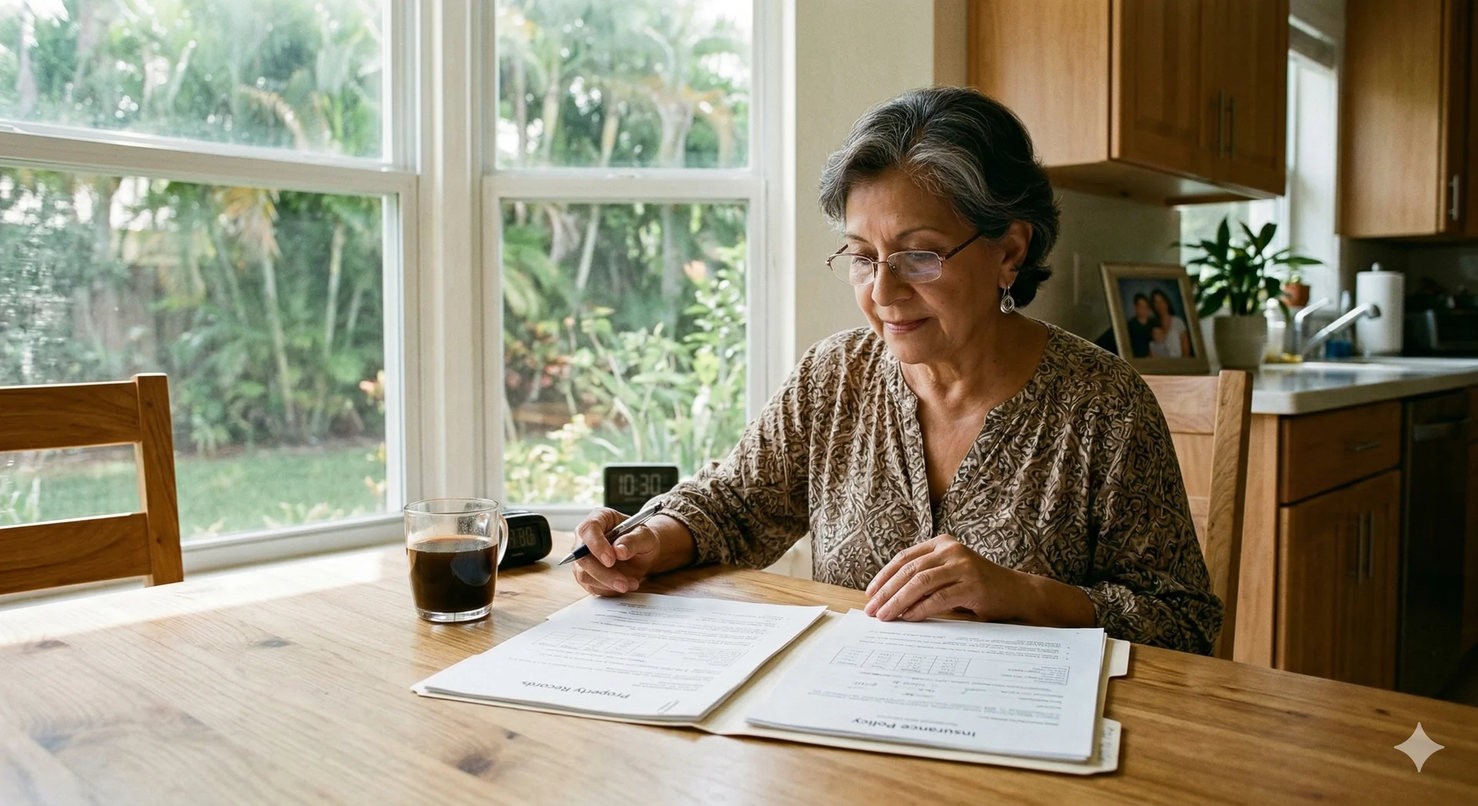
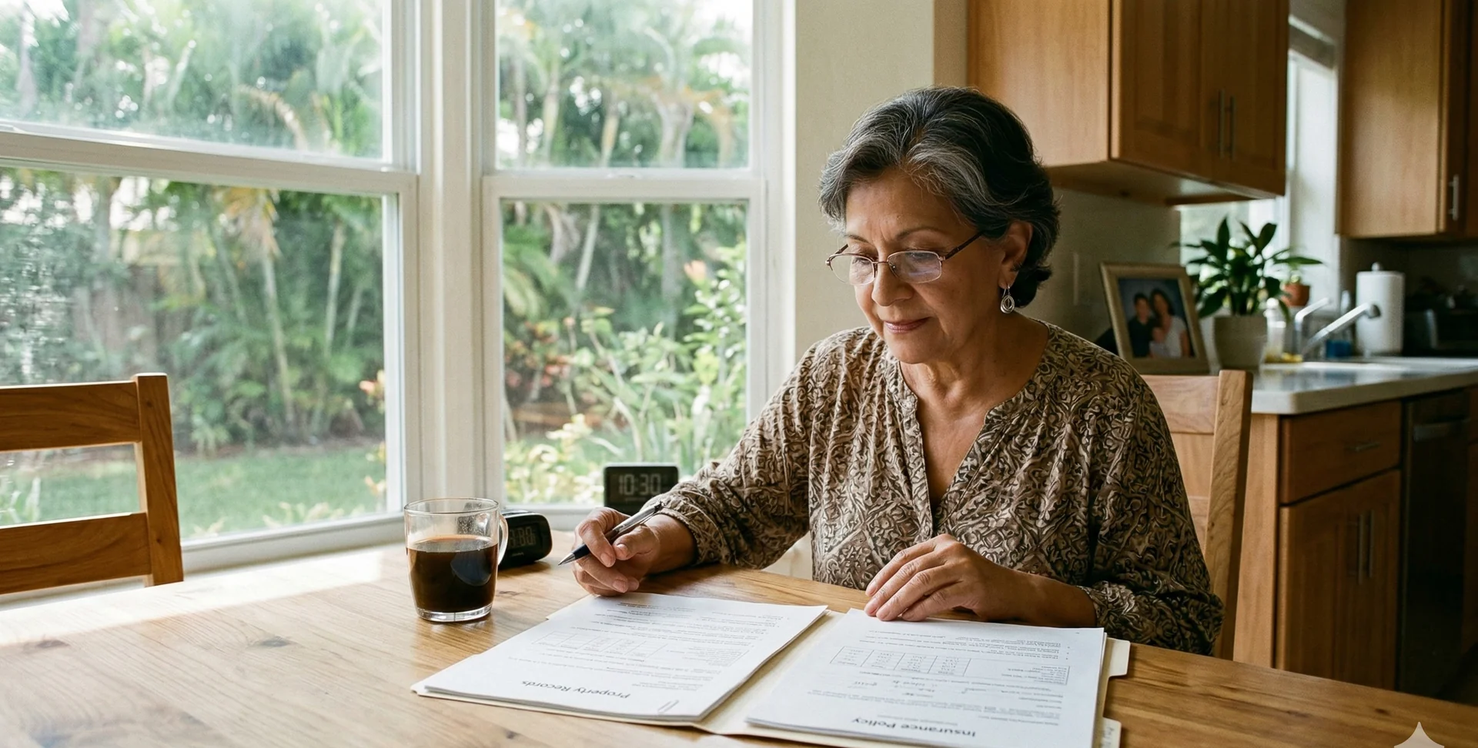
Fix photos: crop Gemini watermark + responsive aspect-ratio CSS
- Crop 110px from bottom of all 12 photos (removes Gemini logo)
- Hero: aspect-ratio 16/6, object-position center 30%
- Body: aspect-ratio 16/9
- Fully responsive — scales naturally on all screen sizes

diff --git a/blog/medicare-supplement-vs-advantage.html b/blog/medicare-supplement-vs-advantage.html
@@ -36,12 +36,12 @@
 .related-section{background:var(--off-white);padding:56px 48px;border-top:1px solid var(--border-soft);}.related-inner{max-width:1080px;margin:0 auto;}.related-title{font-family:var(--font-display);font-size:28px;font-weight:700;color:var(--navy);margin-bottom:28px;}.related-grid{display:grid;grid-template-columns:repeat(3,1fr);gap:24px;}
 .blog-card{background:var(--white);border:1px solid var(--border);border-radius:16px;overflow:hidden;transition:all 0.22s;cursor:pointer;text-decoration:none;display:block;color:inherit;}.blog-card:hover{transform:translateY(-3px);box-shadow:0 12px 40px rgba(0,28,61,0.1);}.blog-card-img{height:160px;display:flex;align-items:center;justify-content:center;position:relative;overflow:hidden;}.bci-medicare{background:linear-gradient(135deg,#001c3d,#0a3a6e);}.bci-aca{background:linear-gradient(135deg,#0a4a34,#1D9E75);}.bci-vida{background:linear-gradient(135deg,#2d1b4e,#7B4FBD);}.bci-general{background:linear-gradient(135deg,#1a1a2e,#2a4a7f);}.blog-card-icon{width:48px;height:48px;border-radius:14px;display:flex;align-items:center;justify-content:center;background:rgba(255,255,255,0.15);}.blog-card-category{position:absolute;top:12px;left:12px;font-size:10px;font-weight:700;letter-spacing:0.08em;text-transform:uppercase;padding:3px 9px;border-radius:10px;}.bcat-medicare{background:rgba(52,152,219,0.9);color:#fff;}.bcat-aca{background:rgba(29,158,117,0.9);color:#fff;}.bcat-general{background:rgba(245,166,35,0.9);color:#001c3d;}.blog-card-body{padding:20px 20px 18px;}.blog-card-meta{display:flex;align-items:center;gap:8px;margin-bottom:9px;}.blog-card-date{font-size:11px;color:var(--text-muted);}.blog-card-read{font-size:11px;color:var(--text-muted);}.blog-card-dot{width:3px;height:3px;border-radius:50%;background:var(--text-muted);}.blog-card-title{font-family:var(--font-display);font-size:16px;font-weight:700;line-height:1.3;color:var(--navy);margin-bottom:8px;}.blog-card-excerpt{font-size:13px;color:var(--text-secondary);line-height:1.6;font-weight:300;}
 .footer{background:var(--navy);}
-@media(max-width:900px){.article-hero-img{height:280px;}.article-body-img{height:240px;}.article-layout{grid-template-columns:1fr;gap:40px;padding:40px 24px 60px;}.article-hero{padding:40px 24px 36px;}.article-hero-title{font-size:28px;}.article-sidebar{position:static;}.related-grid{grid-template-columns:1fr 1fr;}.related-section{padding:40px 24px;}.decision-grid{grid-template-columns:1fr;}}
+@media(max-width:900px){.article-layout{grid-template-columns:1fr;gap:40px;padding:40px 24px 60px;}.article-hero{padding:40px 24px 36px;}.article-hero-title{font-size:28px;}.article-sidebar{position:static;}.related-grid{grid-template-columns:1fr 1fr;}.related-section{padding:40px 24px;}.decision-grid{grid-template-columns:1fr;}}
 @media(max-width:600px){.nav{padding:0 20px;}.nav-links{display:none;}.related-grid{grid-template-columns:1fr;}}
 
 <style>
-.article-hero-img{width:100%;height:460px;object-fit:cover;object-position:center center;display:block;border-radius:0;}
-.article-body-img{width:100%;height:380px;object-fit:cover;object-position:center center;border-radius:12px;margin:32px 0;display:block;box-shadow:0 4px 24px rgba(0,0,0,0.10);}
+.article-hero-img{width:100%;aspect-ratio:16/6;object-fit:cover;object-position:center 30%;display:block;border-radius:0;}
+.article-body-img{width:100%;aspect-ratio:16/9;object-fit:cover;object-position:center center;border-radius:12px;margin:32px 0;display:block;box-shadow:0 4px 24px rgba(0,0,0,0.10);}
 </style>
 </style>
 </head>
@@ -80,7 +80,7 @@
   </div>
 </div>
 
-<img src="/blog/img/medicare-supplement-vs-advantage-hero.webp" alt="Mujer latina revisando documentos de seguro médico en su hogar" class="article-hero-img" loading="eager" width="1920" height="1047">
+<img src="/blog/img/medicare-supplement-vs-advantage-hero.webp" alt="Mujer latina revisando documentos de seguro médico en su hogar" class="article-hero-img" loading="eager" width="1920" height="720">
 
 <div class="article-layout">
   <article class="article-body">
@@ -102,7 +102,7 @@
     <p>Los planes Advantage funcionan como un HMO o PPO: tienes una red de proveedores y necesitas referidos para especialistas en la mayoría de los planes HMO. Muchos planes tienen prima de $0, pero pagas copagos cuando usas los servicios.</p>
 
     <h2>Comparación detallada</h2>
-<img src="/blog/img/medicare-supplement-vs-advantage-docs.webp" alt="Comparación de documentos Medicare Supplement y Medicare Advantage" class="article-body-img" loading="lazy" width="1920" height="1047">
+<img src="/blog/img/medicare-supplement-vs-advantage-docs.webp" alt="Comparación de documentos Medicare Supplement y Medicare Advantage" class="article-body-img" loading="lazy" width="1920" height="1080">
 
     <table class="comparison-table">
       <thead><tr><th>Característica</th><th>Medicare Supplement</th><th>Medicare Advantage</th></tr></thead>

diff --git a/blog/periodo-inscripcion-medicare-2026.html b/blog/periodo-inscripcion-medicare-2026.html
@@ -46,12 +46,12 @@
 .related-section{background:var(--off-white);padding:56px 48px;border-top:1px solid var(--border-soft);}.related-inner{max-width:1080px;margin:0 auto;}.related-title{font-family:var(--font-display);font-size:28px;font-weight:700;color:var(--navy);margin-bottom:28px;}.related-grid{display:grid;grid-template-columns:repeat(3,1fr);gap:24px;}
 .blog-card{background:var(--white);border:1px solid var(--border);border-radius:16px;overflow:hidden;transition:all 0.22s;cursor:pointer;text-decoration:none;display:block;color:inherit;}.blog-card:hover{transform:translateY(-3px);box-shadow:0 12px 40px rgba(0,28,61,0.1);}.blog-card-img{height:160px;display:flex;align-items:center;justify-content:center;position:relative;overflow:hidden;}.bci-medicare{background:linear-gradient(135deg,#001c3d,#0a3a6e);}.bci-aca{background:linear-gradient(135deg,#0a4a34,#1D9E75);}.bci-vida{background:linear-gradient(135deg,#2d1b4e,#7B4FBD);}.blog-card-icon{width:48px;height:48px;border-radius:14px;display:flex;align-items:center;justify-content:center;background:rgba(255,255,255,0.15);}.blog-card-category{position:absolute;top:12px;left:12px;font-size:10px;font-weight:700;letter-spacing:0.08em;text-transform:uppercase;padding:3px 9px;border-radius:10px;}.bcat-medicare{background:rgba(52,152,219,0.9);color:#fff;}.bcat-aca{background:rgba(29,158,117,0.9);color:#fff;}.bcat-vida{background:rgba(155,89,182,0.9);color:#fff;}.blog-card-body{padding:20px 20px 18px;}.blog-card-meta{display:flex;align-items:center;gap:8px;margin-bottom:9px;}.blog-card-date{font-size:11px;color:var(--text-muted);}.blog-card-read{font-size:11px;color:var(--text-muted);}.blog-card-dot{width:3px;height:3px;border-radius:50%;background:var(--text-muted);}.blog-card-title{font-family:var(--font-display);font-size:16px;font-weight:700;line-height:1.3;color:var(--navy);margin-bottom:8px;}.blog-card-excerpt{font-size:13px;color:var(--text-secondary);line-height:1.6;font-weight:300;}
 .footer{background:var(--navy);}
-@media(max-width:900px){.article-hero-img{height:280px;}.article-body-img{height:240px;}.article-layout{grid-template-columns:1fr;gap:40px;padding:40px 24px 60px;}.article-hero{padding:40px 24px 36px;}.article-hero-title{font-size:28px;}.article-sidebar{position:static;}.related-grid{grid-template-columns:1fr 1fr;}.related-section{padding:40px 24px;}.timeline-item{grid-template-columns:1fr;}}
+@media(max-width:900px){.article-layout{grid-template-columns:1fr;gap:40px;padding:40px 24px 60px;}.article-hero{padding:40px 24px 36px;}.article-hero-title{font-size:28px;}.article-sidebar{position:static;}.related-grid{grid-template-columns:1fr 1fr;}.related-section{padding:40px 24px;}.timeline-item{grid-template-columns:1fr;}}
 @media(max-width:600px){.nav{padding:0 20px;}.nav-links{display:none;}.related-grid{grid-template-columns:1fr;}}
 
 <style>
-.article-hero-img{width:100%;height:460px;object-fit:cover;object-position:center center;display:block;border-radius:0;}
-.article-body-img{width:100%;height:380px;object-fit:cover;object-position:center center;border-radius:12px;margin:32px 0;display:block;box-shadow:0 4px 24px rgba(0,0,0,0.10);}
+.article-hero-img{width:100%;aspect-ratio:16/6;object-fit:cover;object-position:center 30%;display:block;border-radius:0;}
+.article-body-img{width:100%;aspect-ratio:16/9;object-fit:cover;object-position:center center;border-radius:12px;margin:32px 0;display:block;box-shadow:0 4px 24px rgba(0,0,0,0.10);}
 </style>
 </style>
 </head>
@@ -90,7 +90,7 @@
   </div>
 </div>
 
-<img src="/blog/img/periodo-inscripcion-medicare-hero.webp" alt="Adulto mayor latino inscribiéndose en Medicare en su computadora" class="article-hero-img" loading="eager" width="1920" height="1047">
+<img src="/blog/img/periodo-inscripcion-medicare-hero.webp" alt="Adulto mayor latino inscribiéndose en Medicare en su computadora" class="article-hero-img" loading="eager" width="1920" height="720">
 
 <div class="article-layout">
   <article class="article-body">
@@ -157,7 +157,7 @@
     </div>
 
     <h2>Penalidades por inscripción tardía</h2>
-<img src="/blog/img/periodo-inscripcion-medicare-calendario.webp" alt="Calendario con fechas importantes del período de inscripción Medicare 2026" class="article-body-img" loading="lazy" width="1920" height="1047">
+<img src="/blog/img/periodo-inscripcion-medicare-calendario.webp" alt="Calendario con fechas importantes del período de inscripción Medicare 2026" class="article-body-img" loading="lazy" width="1920" height="1080">
 
     <h3>Penalidad de la Parte B</h3>
     <p>Si no te inscribes en la Parte B cuando eres elegible por primera vez (y no tienes otra cobertura calificada como seguro de empleador), pagas una penalidad del <strong>10% por cada 12 meses</strong> que no te inscribiste. Esta penalidad es permanente — la pagas el resto de tu vida.</p>

diff --git a/blog/aca-costos-south-florida-2025.html b/blog/aca-costos-south-florida-2025.html
@@ -36,12 +36,12 @@
 .related-section{background:var(--off-white);padding:56px 48px;border-top:1px solid var(--border-soft);}.related-inner{max-width:1080px;margin:0 auto;}.related-title{font-family:var(--font-display);font-size:28px;font-weight:700;color:var(--navy);margin-bottom:28px;}.related-grid{display:grid;grid-template-columns:repeat(3,1fr);gap:24px;}
 .blog-card{background:var(--white);border:1px solid var(--border);border-radius:16px;overflow:hidden;transition:all 0.22s;cursor:pointer;text-decoration:none;display:block;color:inherit;}.blog-card:hover{transform:translateY(-3px);box-shadow:0 12px 40px rgba(0,28,61,0.1);}.blog-card-img{height:160px;display:flex;align-items:center;justify-content:center;position:relative;overflow:hidden;}.bci-medicare{background:linear-gradient(135deg,#001c3d,#0a3a6e);}.bci-aca{background:linear-gradient(135deg,#0a4a34,#1D9E75);}.bci-vida{background:linear-gradient(135deg,#2d1b4e,#7B4FBD);}.blog-card-icon{width:48px;height:48px;border-radius:14px;display:flex;align-items:center;justify-content:center;background:rgba(255,255,255,0.15);}.blog-card-category{position:absolute;top:12px;left:12px;font-size:10px;font-weight:700;letter-spacing:0.08em;text-transform:uppercase;padding:3px 9px;border-radius:10px;}.bcat-medicare{background:rgba(52,152,219,0.9);color:#fff;}.bcat-aca{background:rgba(29,158,117,0.9);color:#fff;}.bcat-vida{background:rgba(155,89,182,0.9);color:#fff;}.blog-card-body{padding:20px 20px 18px;}.blog-card-meta{display:flex;align-items:center;gap:8px;margin-bottom:9px;}.blog-card-date{font-size:11px;color:var(--text-muted);}.blog-card-read{font-size:11px;color:var(--text-muted);}.blog-card-dot{width:3px;height:3px;border-radius:50%;background:var(--text-muted);}.blog-card-title{font-family:var(--font-display);font-size:16px;font-weight:700;line-height:1.3;color:var(--navy);margin-bottom:8px;}.blog-card-excerpt{font-size:13px;color:var(--text-secondary);line-height:1.6;font-weight:300;}
 .footer{background:var(--navy);}
-@media(max-width:900px){.article-hero-img{height:280px;}.article-body-img{height:240px;}.article-layout{grid-template-columns:1fr;gap:40px;padding:40px 24px 60px;}.article-hero{padding:40px 24px 36px;}.article-hero-title{font-size:28px;}.article-sidebar{position:static;}.related-grid{grid-template-columns:1fr 1fr;}.related-section{padding:40px 24px;}.cost-cards{grid-template-columns:1fr 1fr;}}
+@media(max-width:900px){.article-layout{grid-template-columns:1fr;gap:40px;padding:40px 24px 60px;}.article-hero{padding:40px 24px 36px;}.article-hero-title{font-size:28px;}.article-sidebar{position:static;}.related-grid{grid-template-columns:1fr 1fr;}.related-section{padding:40px 24px;}.cost-cards{grid-template-columns:1fr 1fr;}}
 @media(max-width:600px){.nav{padding:0 20px;}.nav-links{display:none;}.related-grid{grid-template-columns:1fr;}.cost-cards{grid-template-columns:1fr;}}
 
 <style>
-.article-hero-img{width:100%;height:460px;object-fit:cover;object-position:center center;display:block;border-radius:0;}
-.article-body-img{width:100%;height:380px;object-fit:cover;object-position:center center;border-radius:12px;margin:32px 0;display:block;box-shadow:0 4px 24px rgba(0,0,0,0.10);}
+.article-hero-img{width:100%;aspect-ratio:16/6;object-fit:cover;object-position:center 30%;display:block;border-radius:0;}
+.article-body-img{width:100%;aspect-ratio:16/9;object-fit:cover;object-position:center center;border-radius:12px;margin:32px 0;display:block;box-shadow:0 4px 24px rgba(0,0,0,0.10);}
 </style>
 </style>
 </head>
@@ -80,7 +80,7 @@
   </div>
 </div>
 
-<img src="/blog/img/aca-costos-south-florida-hero.webp" alt="Familia latina en su hogar en South Florida" class="article-hero-img" loading="eager" width="1920" height="1047">
+<img src="/blog/img/aca-costos-south-florida-hero.webp" alt="Familia latina en su hogar en South Florida" class="article-hero-img" loading="eager" width="1920" height="720">
 
 <div class="article-layout">
   <article class="article-body">
@@ -148,7 +148,7 @@
     </ul>
 
     <h2>¿Y si soy trabajador independiente (self-employed)?</h2>
-<img src="/blog/img/aca-costos-south-florida-trabajo.webp" alt="Mujer latina trabajadora independiente revisando opciones de seguro ACA" class="article-body-img" loading="lazy" width="1920" height="1047">
+<img src="/blog/img/aca-costos-south-florida-trabajo.webp" alt="Mujer latina trabajadora independiente revisando opciones de seguro ACA" class="article-body-img" loading="lazy" width="1920" height="1080">
 
     <p>Si trabajas por cuenta propia, el ACA puede ser tu mejor opción de seguro médico. Puedes deducir el 100% de la prima de seguro médico de tus impuestos federales, lo que reduce aún más el costo efectivo. Además, si tu ingreso neto del negocio varía, puedes estimar un ingreso promedio para calcular tu subsidio.</p>
 

diff --git a/blog/seguro-de-vida-valor-en-efectivo.html b/blog/seguro-de-vida-valor-en-efectivo.html
@@ -37,12 +37,12 @@
 .related-section{background:var(--off-white);padding:56px 48px;border-top:1px solid var(--border-soft);}.related-inner{max-width:1080px;margin:0 auto;}.related-title{font-family:var(--font-display);font-size:28px;font-weight:700;color:var(--navy);margin-bottom:28px;}.related-grid{display:grid;grid-template-columns:repeat(3,1fr);gap:24px;}
 .blog-card{background:var(--white);border:1px solid var(--border);border-radius:16px;overflow:hidden;transition:all 0.22s;cursor:pointer;text-decoration:none;display:block;color:inherit;}.blog-card:hover{transform:translateY(-3px);box-shadow:0 12px 40px rgba(0,28,61,0.1);}.blog-card-img{height:160px;display:flex;align-items:center;justify-content:center;position:relative;overflow:hidden;}.bci-medicare{background:linear-gradient(135deg,#001c3d,#0a3a6e);}.bci-aca{background:linear-gradient(135deg,#0a4a34,#1D9E75);}.bci-vida{background:linear-gradient(135deg,#2d1b4e,#7B4FBD);}.blog-card-icon{width:48px;height:48px;border-radius:14px;display:flex;align-items:center;justify-content:center;background:rgba(255,255,255,0.15);}.blog-card-category{position:absolute;top:12px;left:12px;font-size:10px;font-weight:700;letter-spacing:0.08em;text-transform:uppercase;padding:3px 9px;border-radius:10px;}.bcat-medicare{background:rgba(52,152,219,0.9);color:#fff;}.bcat-aca{background:rgba(29,158,117,0.9);color:#fff;}.bcat-vida{background:rgba(155,89,182,0.9);color:#fff;}.blog-card-body{padding:20px 20px 18px;}.blog-card-meta{display:flex;align-items:center;gap:8px;margin-bottom:9px;}.blog-card-date{font-size:11px;color:var(--text-muted);}.blog-card-read{font-size:11px;color:var(--text-muted);}.blog-card-dot{width:3px;height:3px;border-radius:50%;background:var(--text-muted);}.blog-card-title{font-family:var(--font-display);font-size:16px;font-weight:700;line-height:1.3;color:var(--navy);margin-bottom:8px;}.blog-card-excerpt{font-size:13px;color:var(--text-secondary);line-height:1.6;font-weight:300;}
 .footer{background:var(--navy);}
-@media(max-width:900px){.article-hero-img{height:280px;}.article-body-img{height:240px;}.article-layout{grid-template-columns:1fr;gap:40px;padding:40px 24px 60px;}.article-hero{padding:40px 24px 36px;}.article-hero-title{font-size:28px;}.article-sidebar{position:static;}.related-grid{grid-template-columns:1fr 1fr;}.related-section{padding:40px 24px;}.policy-types{grid-template-columns:1fr;}}
+@media(max-width:900px){.article-layout{grid-template-columns:1fr;gap:40px;padding:40px 24px 60px;}.article-hero{padding:40px 24px 36px;}.article-hero-title{font-size:28px;}.article-sidebar{position:static;}.related-grid{grid-template-columns:1fr 1fr;}.related-section{padding:40px 24px;}.policy-types{grid-template-columns:1fr;}}
 @media(max-width:600px){.nav{padding:0 20px;}.nav-links{display:none;}.related-grid{grid-template-columns:1fr;}}
 
 <style>
-.article-hero-img{width:100%;height:460px;object-fit:cover;object-position:center center;display:block;border-radius:0;}
-.article-body-img{width:100%;height:380px;object-fit:cover;object-position:center center;border-radius:12px;margin:32px 0;display:block;box-shadow:0 4px 24px rgba(0,0,0,0.10);}
+.article-hero-img{width:100%;aspect-ratio:16/6;object-fit:cover;object-position:center 30%;display:block;border-radius:0;}
+.article-body-img{width:100%;aspect-ratio:16/9;object-fit:cover;object-position:center center;border-radius:12px;margin:32px 0;display:block;box-shadow:0 4px 24px rgba(0,0,0,0.10);}
 </style>
 </style>
 </head>
@@ -81,7 +81,7 @@
   </div>
 </div>
 
-<img src="/blog/img/seguro-vida-valor-efectivo-hero.webp" alt="Familia latina multigeneracional reunida en South Florida" class="article-hero-img" loading="eager" width="1920" height="1047">
+<img src="/blog/img/seguro-vida-valor-efectivo-hero.webp" alt="Familia latina multigeneracional reunida en South Florida" class="article-hero-img" loading="eager" width="1920" height="720">
 
 <div class="article-layout">
   <article class="article-body">
@@ -111,7 +111,7 @@
     </ul>
 
     <h2>¿Cómo puedo acceder al valor en efectivo?</h2>
-<img src="/blog/img/seguro-vida-valor-efectivo-manos.webp" alt="Planificación financiera con seguro de vida con valor en efectivo" class="article-body-img" loading="lazy" width="1920" height="1047">
+<img src="/blog/img/seguro-vida-valor-efectivo-manos.webp" alt="Planificación financiera con seguro de vida con valor en efectivo" class="article-body-img" loading="lazy" width="1920" height="1080">
 
     <h3>1. Préstamo contra la póliza (Policy Loan)</h3>
     <p>Puedes pedir prestado hasta el 90–95% de tu valor en efectivo. El dinero llega a tu cuenta en días, sin verificación de crédito, sin declarar ingresos, sin impuestos en el momento del préstamo. Si no pagas el préstamo, se deduce del beneficio de muerte.</p>

diff --git a/blog/como-ser-agente-partner-lopcha.html b/blog/como-ser-agente-partner-lopcha.html
@@ -42,12 +42,12 @@
 .related-section{background:var(--off-white);padding:56px 48px;border-top:1px solid var(--border-soft);}.related-inner{max-width:1080px;margin:0 auto;}.related-title{font-family:var(--font-display);font-size:28px;font-weight:700;color:var(--navy);margin-bottom:28px;}.related-grid{display:grid;grid-template-columns:repeat(3,1fr);gap:24px;}
 .blog-card{background:var(--white);border:1px solid var(--border);border-radius:16px;overflow:hidden;transition:all 0.22s;cursor:pointer;text-decoration:none;display:block;color:inherit;}.blog-card:hover{transform:translateY(-3px);box-shadow:0 12px 40px rgba(0,28,61,0.1);}.blog-card-img{height:160px;display:flex;align-items:center;justify-content:center;position:relative;overflow:hidden;}.bci-medicare{background:linear-gradient(135deg,#001c3d,#0a3a6e);}.bci-aca{background:linear-gradient(135deg,#0a4a34,#1D9E75);}.bci-vida{background:linear-gradient(135deg,#2d1b4e,#7B4FBD);}.blog-card-icon{width:48px;height:48px;border-radius:14px;display:flex;align-items:center;justify-content:center;background:rgba(255,255,255,0.15);}.blog-card-category{position:absolute;top:12px;left:12px;font-size:10px;font-weight:700;letter-spacing:0.08em;text-transform:uppercase;padding:3px 9px;border-radius:10px;}.bcat-medicare{background:rgba(52,152,219,0.9);color:#fff;}.bcat-aca{background:rgba(29,158,117,0.9);color:#fff;}.bcat-vida{background:rgba(155,89,182,0.9);color:#fff;}.blog-card-body{padding:20px 20px 18px;}.blog-card-meta{display:flex;align-items:center;gap:8px;margin-bottom:9px;}.blog-card-date{font-size:11px;color:var(--text-muted);}.blog-card-read{font-size:11px;color:var(--text-muted);}.blog-card-dot{width:3px;height:3px;border-radius:50%;background:var(--text-muted);}.blog-card-title{font-family:var(--font-display);font-size:16px;font-weight:700;line-height:1.3;color:var(--navy);margin-bottom:8px;}.blog-card-excerpt{font-size:13px;color:var(--text-secondary);line-height:1.6;font-weight:300;}
 .footer{background:var(--navy);}
-@media(max-width:900px){.article-hero-img{height:280px;}.article-body-img{height:240px;}.article-layout{grid-template-columns:1fr;gap:40px;padding:40px 24px 60px;}.article-hero{padding:40px 24px 36px;}.article-hero-title{font-size:28px;}.article-sidebar{position:static;}.related-grid{grid-template-columns:1fr 1fr;}.related-section{padding:40px 24px;}.benefits-grid{grid-template-columns:1fr;}}
+@media(max-width:900px){.article-layout{grid-template-columns:1fr;gap:40px;padding:40px 24px 60px;}.article-hero{padding:40px 24px 36px;}.article-hero-title{font-size:28px;}.article-sidebar{position:static;}.related-grid{grid-template-columns:1fr 1fr;}.related-section{padding:40px 24px;}.benefits-grid{grid-template-columns:1fr;}}
 @media(max-width:600px){.nav{padding:0 20px;}.nav-links{display:none;}.related-grid{grid-template-columns:1fr;}}
 
 <style>
-.article-hero-img{width:100%;height:460px;object-fit:cover;object-position:center center;display:block;border-radius:0;}
-.article-body-img{width:100%;height:380px;object-fit:cover;object-position:center center;border-radius:12px;margin:32px 0;display:block;box-shadow:0 4px 24px rgba(0,0,0,0.10);}
+.article-hero-img{width:100%;aspect-ratio:16/6;object-fit:cover;object-position:center 30%;display:block;border-radius:0;}
+.article-body-img{width:100%;aspect-ratio:16/9;object-fit:cover;object-position:center center;border-radius:12px;margin:32px 0;display:block;box-shadow:0 4px 24px rgba(0,0,0,0.10);}
 </style>
 </style>
 </head>
@@ -86,7 +86,7 @@
   </div>
 </div>
 
-<img src="/blog/img/agente-partner-lopcha-hero.webp" alt="Agente de seguros profesional latina en oficina moderna en Miami" class="article-hero-img" loading="eager" width="1920" height="1047">
+<img src="/blog/img/agente-partner-lopcha-hero.webp" alt="Agente de seguros profesional latina en oficina moderna en Miami" class="article-hero-img" loading="eager" width="1920" height="720">
 
 <div class="article-layout">
   <article class="article-body">
@@ -142,7 +142,7 @@
     <p>Si tienes o planeas tener tu propia agencia con sub-agentes, el modelo Partner te da overrides sobre la producción de todo tu equipo, soporte de recruitment y la infraestructura para escalar sin aumentar tus costos operativos.</p>
 
     <h2>Proceso para convertirte en Partner</h2>
-<img src="/blog/img/agente-partner-lopcha-reunion.webp" alt="Dos agentes de seguros en reunión de negocios en South Florida" class="article-body-img" loading="lazy" width="1920" height="1047">
+<img src="/blog/img/agente-partner-lopcha-reunion.webp" alt="Dos agentes de seguros en reunión de negocios en South Florida" class="article-body-img" loading="lazy" width="1920" height="1080">
 
     <div class="steps-section">
       <div class="step-item">

diff --git a/blog/medicare-advantage-florida-2025.html b/blog/medicare-advantage-florida-2025.html
@@ -126,12 +126,12 @@
 /* FOOTER */
 .footer{background:var(--navy);}
 /* RESPONSIVE */
-@media(max-width:900px){.article-hero-img{height:280px;}.article-body-img{height:240px;}.article-layout{grid-template-columns:1fr;gap:40px;padding:40px 24px 60px;}.article-hero{padding:40px 24px 36px;}.article-hero-title{font-size:28px;}.article-sidebar{position:static;}.related-grid{grid-template-columns:1fr 1fr;}.related-section{padding:40px 24px;}}
+@media(max-width:900px){.article-layout{grid-template-columns:1fr;gap:40px;padding:40px 24px 60px;}.article-hero{padding:40px 24px 36px;}.article-hero-title{font-size:28px;}.article-sidebar{position:static;}.related-grid{grid-template-columns:1fr 1fr;}.related-section{padding:40px 24px;}}
 @media(max-width:600px){.nav{padding:0 20px;}.nav-links{display:none;}.related-grid{grid-template-columns:1fr;}}
 
 <style>
-.article-hero-img{width:100%;height:460px;object-fit:cover;object-position:center center;display:block;border-radius:0;}
-.article-body-img{width:100%;height:380px;object-fit:cover;object-position:center center;border-radius:12px;margin:32px 0;display:block;box-shadow:0 4px 24px rgba(0,0,0,0.10);}
+.article-hero-img{width:100%;aspect-ratio:16/6;object-fit:cover;object-position:center 30%;display:block;border-radius:0;}
+.article-body-img{width:100%;aspect-ratio:16/9;object-fit:cover;object-position:center center;border-radius:12px;margin:32px 0;display:block;box-shadow:0 4px 24px rgba(0,0,0,0.10);}
 </style>
 </style>
 </head>
@@ -179,7 +179,7 @@
   </div>
 </div>
 
-<img src="/blog/img/medicare-advantage-florida-hero.webp" alt="Pareja de adultos mayores latinos felices en South Florida" class="article-hero-img" loading="eager" width="1920" height="1047">
+<img src="/blog/img/medicare-advantage-florida-hero.webp" alt="Pareja de adultos mayores latinos felices en South Florida" class="article-hero-img" loading="eager" width="1920" height="720">
 
 <div class="article-layout">
   <article class="article-body">
@@ -192,7 +192,7 @@
     </div>
 
     <h2>¿Qué es Medicare Advantage?</h2>
-<img src="/blog/img/medicare-advantage-florida-doctor.webp" alt="Doctor latino consultando con paciente mayor en clínica de South Florida" class="article-body-img" loading="lazy" width="1920" height="1047">
+<img src="/blog/img/medicare-advantage-florida-doctor.webp" alt="Doctor latino consultando con paciente mayor en clínica de South Florida" class="article-body-img" loading="lazy" width="1920" height="1080">
 
     <p>Medicare Advantage, también llamado Medicare Parte C, es ofrecido por compañías de seguros privadas aprobadas por Medicare. Estos planes cubren todo lo que cubre el Medicare Original (Partes A y B), pero generalmente añaden beneficios adicionales.</p>
     <p>En Florida, los planes Advantage son extremadamente populares por una razón simple: <strong>la competencia entre aseguradoras es muy alta</strong>, lo que obliga a las compañías a ofrecer planes cada vez más completos y con primas más bajas.</p>
